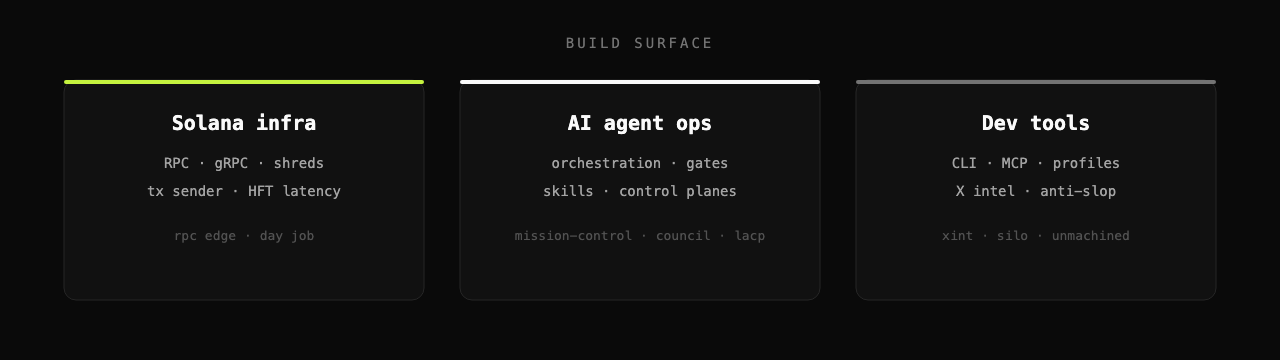
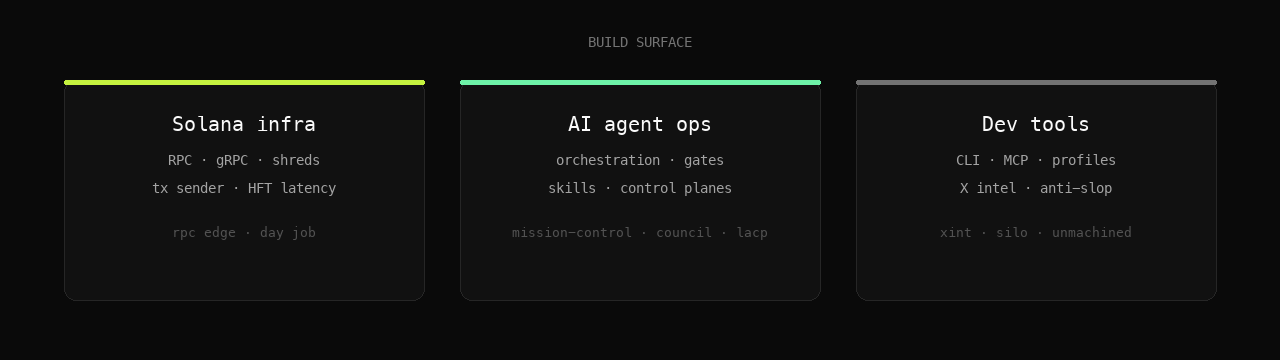
style: hub mint primary on profile badges and stack
Align README hub chips to #6EF2A8, keep rpc edge on #C5F23F,
and mark AI agent ops with hub mint on the build-surface graphic.

diff --git a/README.md b/README.md
@@ -1,6 +1,6 @@
 <div align="center">
 
-![nyk](assets/banner.png?v=6ef2a8-14k)
+![nyk](assets/banner.png?v=6ef2a8-mint)
 
 **Builder** - AI agent ops, Solana infrastructure, open source.  
 Personal brand / hub: [nyk.dev](https://nyk.dev) · GitHub: [github.com/0xNyk](https://github.com/0xNyk)
@@ -8,11 +8,11 @@ Personal brand / hub: [nyk.dev](https://nyk.dev) · GitHub: [github.com/0xNyk](h
 Ventures under the name: co-founder [rpc edge](https://rpcedge.com) · founded [Builderz](https://builderz.dev) · selective consulting.
 
 <p>
-  <a href="https://nyk.dev"><img src="https://img.shields.io/badge/nyk.dev-000000?style=flat-square&logo=vercel&logoColor=white" alt="nyk.dev" /></a>
-  <a href="https://github.com/0xNyk"><img src="https://img.shields.io/badge/GitHub-0xNyk-181717?style=flat-square&logo=github" alt="GitHub 0xNyk" /></a>
+  <a href="https://nyk.dev"><img src="https://img.shields.io/badge/nyk.dev-6EF2A8?style=flat-square&logo=vercel&logoColor=0A0A0A" alt="nyk.dev" /></a>
+  <a href="https://github.com/0xNyk"><img src="https://img.shields.io/badge/GitHub-0xNyk-181717?style=flat-square&logo=github&logoColor=6EF2A8" alt="GitHub 0xNyk" /></a>
   <a href="https://rpcedge.com"><img src="https://img.shields.io/badge/rpc%20edge-rpcedge.com-C5F23F?style=flat-square&labelColor=0A0A0A" alt="rpc edge" /></a>
   <a href="https://docs.rpcedge.com"><img src="https://img.shields.io/badge/docs-docs.rpcedge.com-0A0A0A?style=flat-square" alt="rpc edge docs" /></a>
-  <a href="https://x.com/nyk_builderz"><img src="https://img.shields.io/badge/X-@nyk__builderz-111111?style=flat-square&logo=x" alt="X" /></a>
+  <a href="https://x.com/nyk_builderz"><img src="https://img.shields.io/badge/X-@nyk__builderz-0A0A0A?style=flat-square&logo=x&logoColor=6EF2A8" alt="X" /></a>
   <a href="https://x.com/rpcedge"><img src="https://img.shields.io/badge/X-@rpcedge-111111?style=flat-square&logo=x" alt="rpc edge on X" /></a>
 </p>
 
